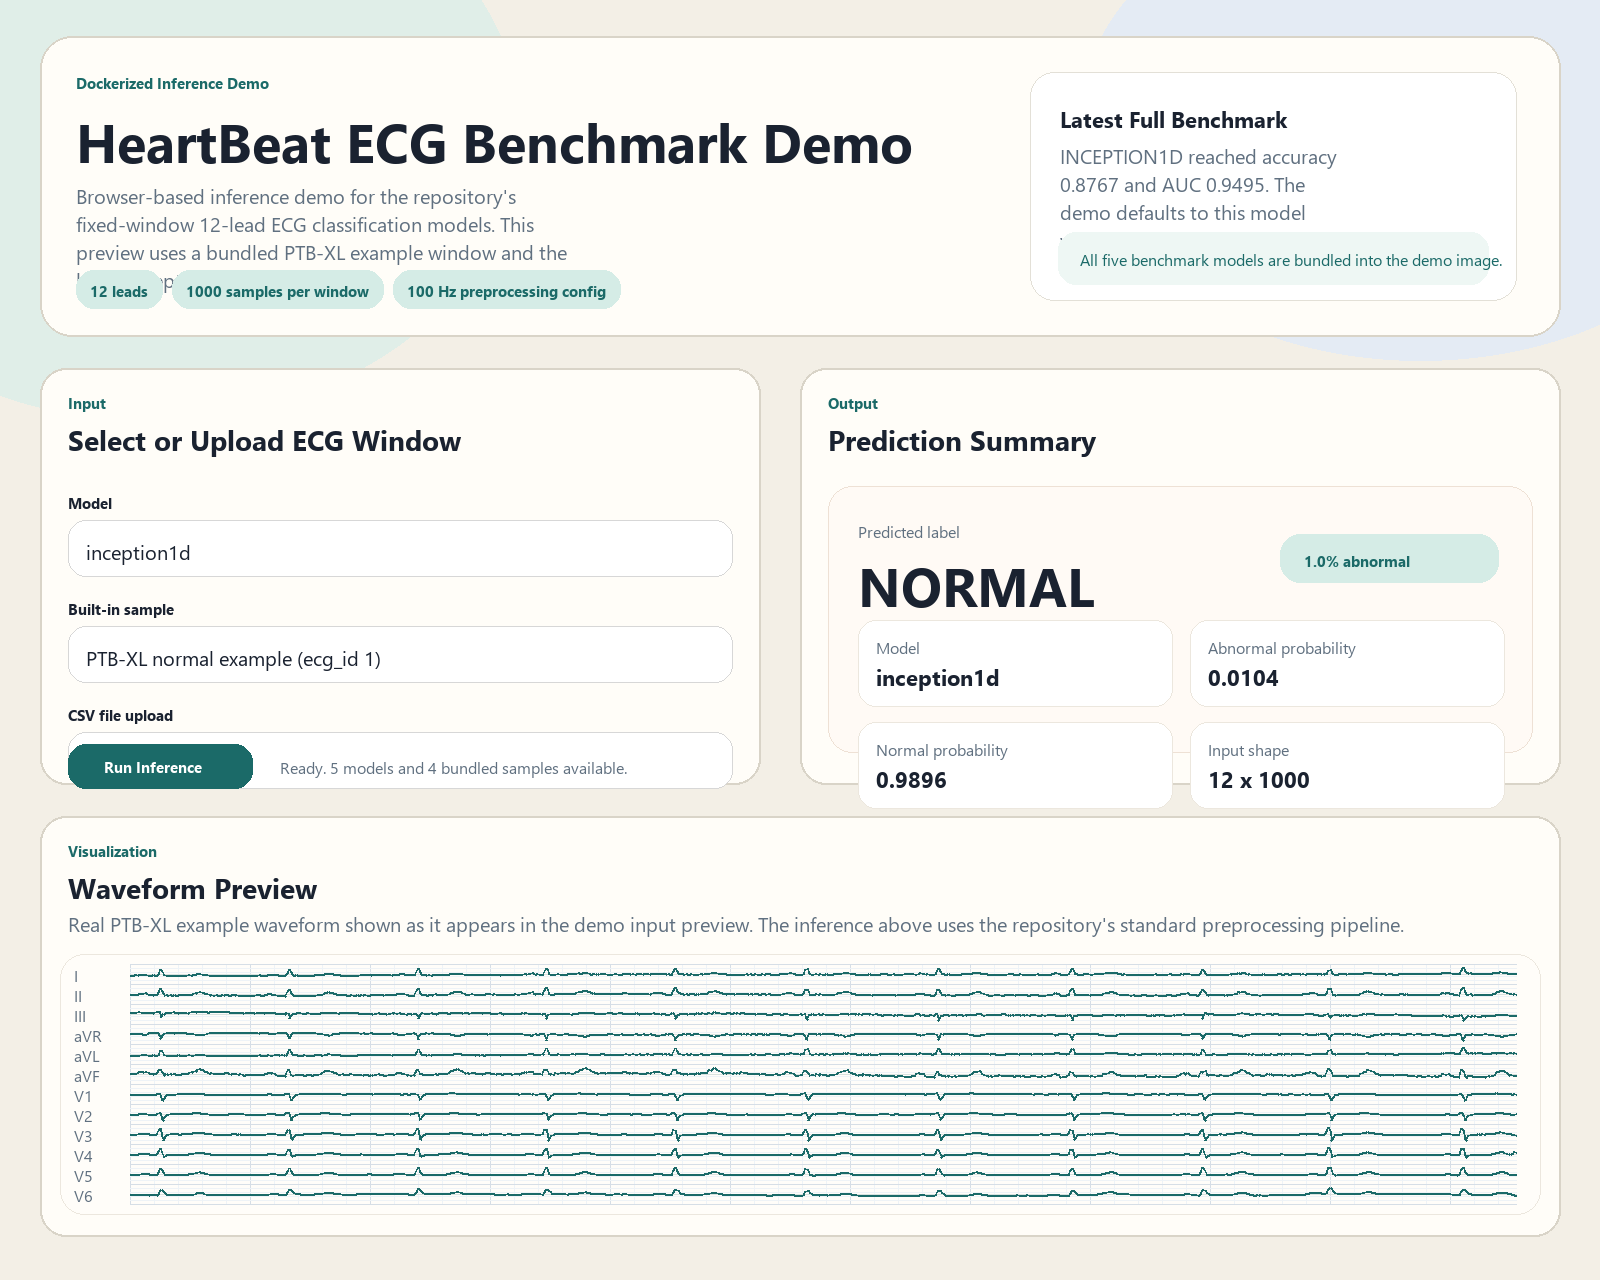
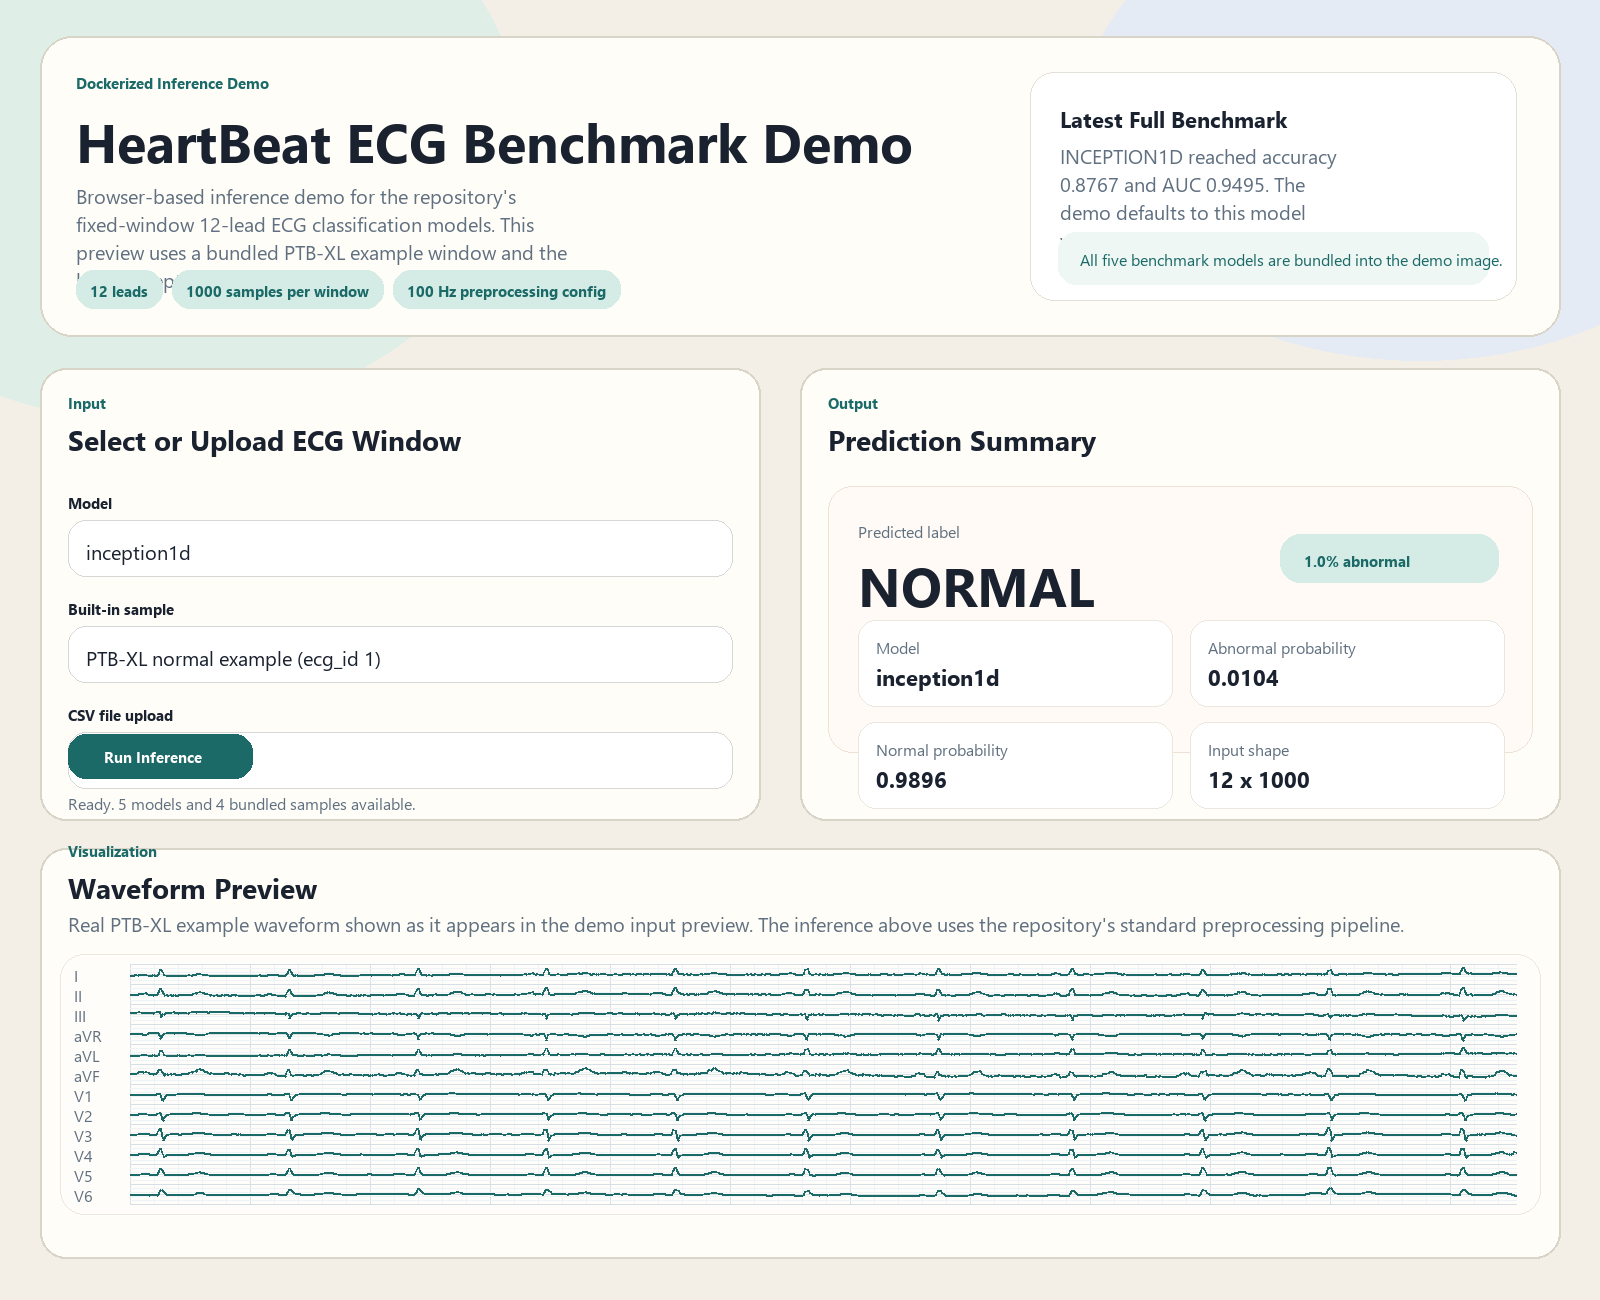
style: fix demo screenshot layout overlap

diff --git a/app/templates/index.html b/app/templates/index.html
@@ -72,7 +72,7 @@
                         or the transposed layout <strong>{{ signal_length }} x {{ leads|length }}</strong>.
                         Header rows are not supported. Bundled samples include PTB-XL example windows plus synthetic fallback demo inputs.
                     </p>
-                    <div class="button-row">
+                    <div class="button-row action-row">
                         <button id="submit-button" type="submit">Run Inference</button>
                         <span id="status-text" class="status-text">Loading demo metadata...</span>
                     </div>

diff --git a/app/static/styles.css b/app/static/styles.css
@@ -191,9 +191,19 @@ button:disabled {
     flex-wrap: wrap;
 }
 
+.action-row {
+    align-items: flex-start;
+}
+
+.action-row .status-text {
+    width: 100%;
+}
+
 .status-text {
     color: var(--muted);
-    font-size: 0.95rem;
+    display: block;
+    font-size: 0.92rem;
+    line-height: 1.45;
 }
 
 .result-panel {

diff --git a/scripts/generate_demo_screenshot.py b/scripts/generate_demo_screenshot.py
@@ -27,7 +27,7 @@ SAMPLE_MANIFEST_PATH = PROJECT_ROOT / "sample_inputs" / "manifest.json"
 MODEL_NAME = "inception1d"
 
 WIDTH = 1600
-HEIGHT = 1280
+HEIGHT = 1300
 
 BG = "#f3efe6"
 PANEL = "#fffdf8"
@@ -159,9 +159,9 @@ def create_demo_image() -> Path:
     draw.ellipse((1080, -120, 1760, 360), fill="#e4ebf4")
 
     hero = (40, 36, 1560, 336)
-    left_panel = (40, 368, 760, 784)
-    right_panel = (800, 368, 1560, 784)
-    waveform_panel = (40, 816, 1560, 1236)
+    left_panel = (40, 368, 760, 820)
+    right_panel = (800, 368, 1560, 820)
+    waveform_panel = (40, 848, 1560, 1258)
 
     rounded(draw, hero, PANEL, outline=BORDER, width=2, radius=32)
     rounded(draw, left_panel, PANEL, outline=BORDER, width=2)
@@ -219,9 +219,9 @@ def create_demo_image() -> Path:
         draw.text((86, field_y + 46), value, font=FONT_BODY, fill=TEXT)
         field_y += 106
 
-    rounded(draw, (68, 744, 252, 788), ACCENT, radius=18)
-    draw.text((104, 756), "Run Inference", font=FONT_LABEL, fill="#ffffff")
-    draw.text((280, 756), f"Ready. {len(models)} models and 4 bundled samples available.", font=FONT_SMALL, fill=MUTED)
+    rounded(draw, (68, 734, 252, 778), ACCENT, radius=18)
+    draw.text((104, 746), "Run Inference", font=FONT_LABEL, fill="#ffffff")
+    draw.text((68, 792), f"Ready. {len(models)} models and 4 bundled samples available.", font=FONT_SMALL, fill=MUTED)
 
     # Output panel
     draw.text((828, 392), "Output", font=FONT_LABEL, fill=ACCENT)
